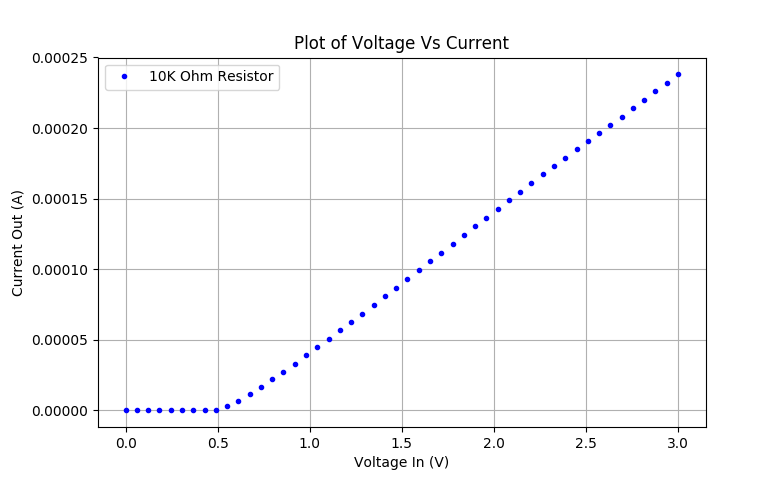
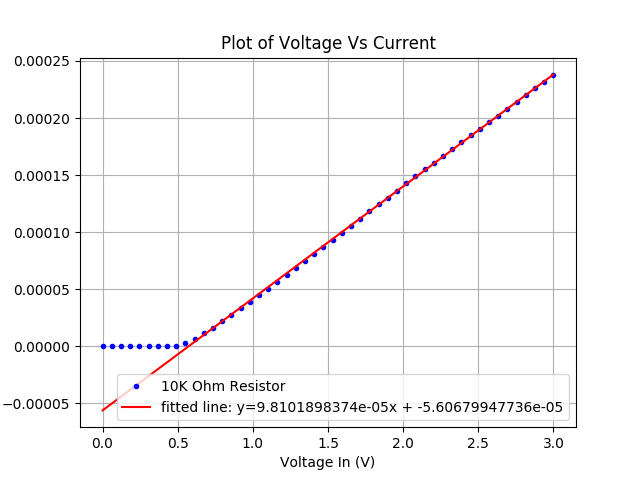
updating 10k graph

diff --git a/lab 2/exp2graph10k.py b/lab 2/exp2graph10k.py
@@ -4,7 +4,6 @@
 
 import numpy as np
 import matplotlib.pyplot as plt
-from exp2graphall import von10k
 from scipy import stats
 
 
@@ -22,31 +21,29 @@ for x in Vin:
     i = i+1
 
 i = 0
-found = False
 for x in I10K:
     val = float(x)
     I10K[i]= val
-    if val > .000005 and not found:
-        print(Vin[i])
-        von10k = Vin[i]
-        found = True
-    if Vin[i] > von10k:
+    if Vin[i] > .5:
         linear_i.append(val)
         linear_v.append(Vin[i])
     i = i+1
+
+slope, intercept, r_value, p_value, std_err = stats.linregress(linear_v, linear_i)
+linear_v = np.array(linear_v)
+
+von10k = (-1*intercept)/slope
 
 
 title = "Plot of Voltage Vs Current"
 xLabel = "Voltage In (V)"
 yLabel = "Current Out (A)"
 linear_v = np.array(linear_v)
-linear_i = np.array(linear_i)
-intercept = von10k
-slope = 1.0/10000.0
+Vin = np.array(Vin)
 
 
 Data = plt.plot(Vin, I10K, 'bo', markersize=3, label="10K Ohm Resistor")
-Data = plt.plot(linear_v, slope*(linear_v-von10k), 'r', label="fitted line")
+Data = plt.plot(Vin, (slope*Vin)+intercept, 'r', label="fitted line: y="+str(slope)+"x + " +str(intercept))
 
 
 plt.legend()

diff --git a/lab 2/exp2transistorv.py b/lab 2/exp2transistorv.py
@@ -59,6 +59,8 @@ for x in I100:
     I100[i]= val
     i = i+1
 
+print(len(Vt10K))
+print(len(Vin))
 i = 0
 for val in Vin:
     frac = val / Vt10K[i]
@@ -67,9 +69,12 @@ for val in Vin:
     ion10k.append((frac*I10K[i])/(1-frac))
     ion1k.append((frac2*I1K[i])/(1-frac2))
     ion100.append((frac3*I100[i])/(1-frac3))
+    i = i+1
 
 ion10k_val = np.mean(ion10k)
+print(ion10k_val)
 ion1k_val = np.mean(ion1k)
+print(ion1k_val)
 
 
 if __name__ == '__main__':
